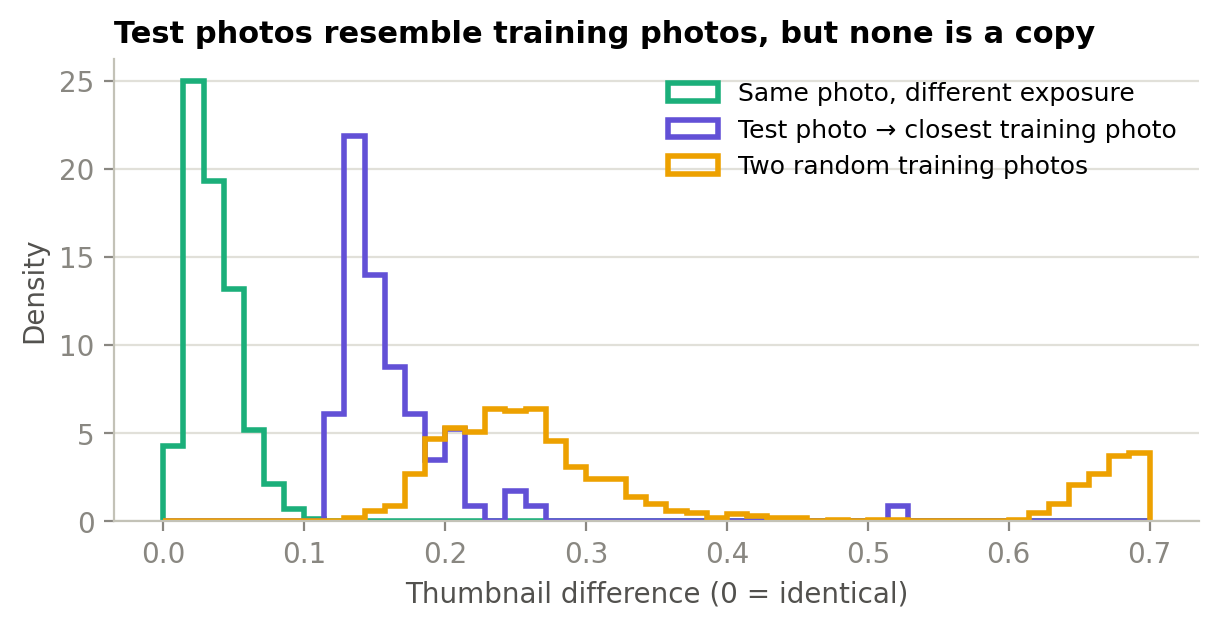
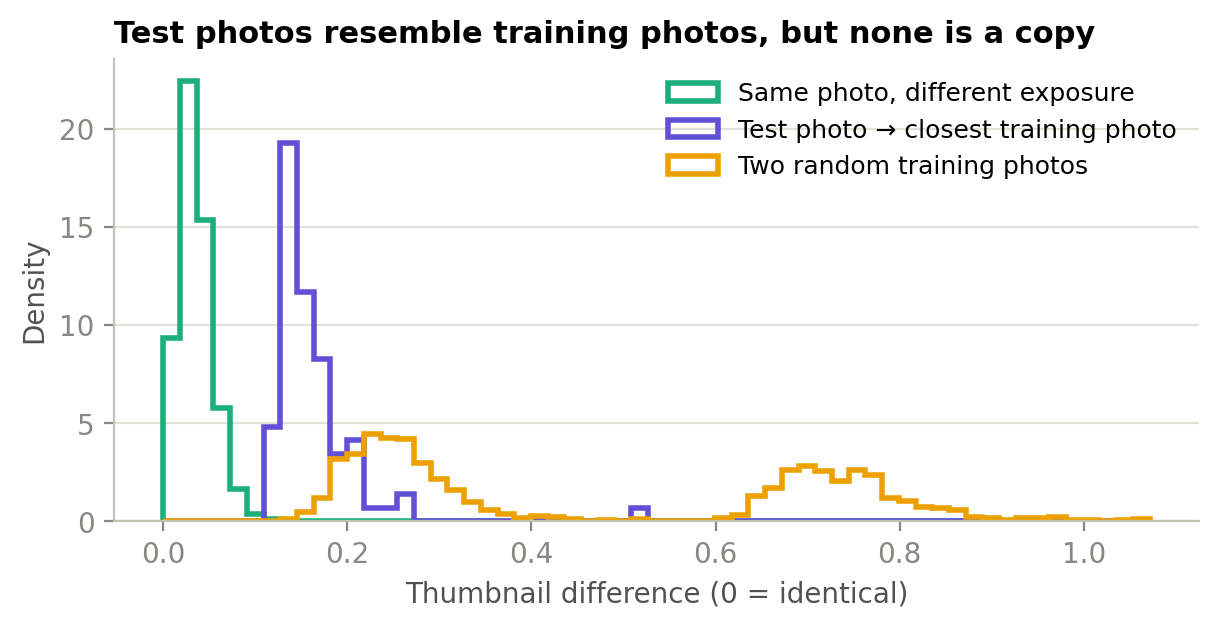
Fix near-duplicate chart

Changed region(s): [[0.0312, 0.121, 0.9984, 0.9076], [0.5928, 0.121, 0.9672, 0.1513], [0.9048, 0.242, 0.9672, 0.2723]]

diff --git a/README.md b/README.md
@@ -31,7 +31,7 @@ Invalid inputs: an unknown split name raises `ValueError`; a missing annotation 
 
 \* includes loading the JPEG; CNN times are for the network only. Balanced accuracy is used because ~80% of photos are FAIL – a model that always answers FAIL scores 85% plain accuracy.
 
-**Recommended model: CNN at 224 px.** Doubling the resolution needed 3.8× the computation and 2.5× the training time without improving accuracy. Main limitations: small test set (12 PASS photos, wide intervals), one camera and belt, each CNN trained once, and "PASS" means "no defect visible in this photo". Details are in the notebooks and the report.
+**Recommended model: CNN at 224 px.** Doubling the resolution needed 3.8× the computation and 2.5× the training time without improving accuracy. Main limitations: small test set (12 PASS photos, wide intervals), one camera and belt, each CNN trained once, and "PASS" means "no defect visible in this photo". Details are in the notebooks and the project report.
 
 ## Repository structure
 
@@ -48,7 +48,6 @@ pork-rasher-inspection/
 │   ├── evaluate.py         #   metrics and confidence intervals
 │   └── cnn.py              #   MobileNetV2 transfer learning
 ├── tests/                  # pytest tests
-├── AI_USE_LOG.md           # running log of AI assistance
 ├── pyproject.toml          # pytest configuration
 ├── requirements.txt
 └── LICENSE
@@ -107,7 +106,7 @@ python -m pdoc src/rasher_inspection --docformat google -o docs
 
 ## AI use
 
-AI assistance (Claude) is disclosed in [`AI_USE_LOG.md`](AI_USE_LOG.md) and discussed in the project report.
+Use of generative AI (Claude) is declared in Section 8 of the project report.
 
 ## License
 
